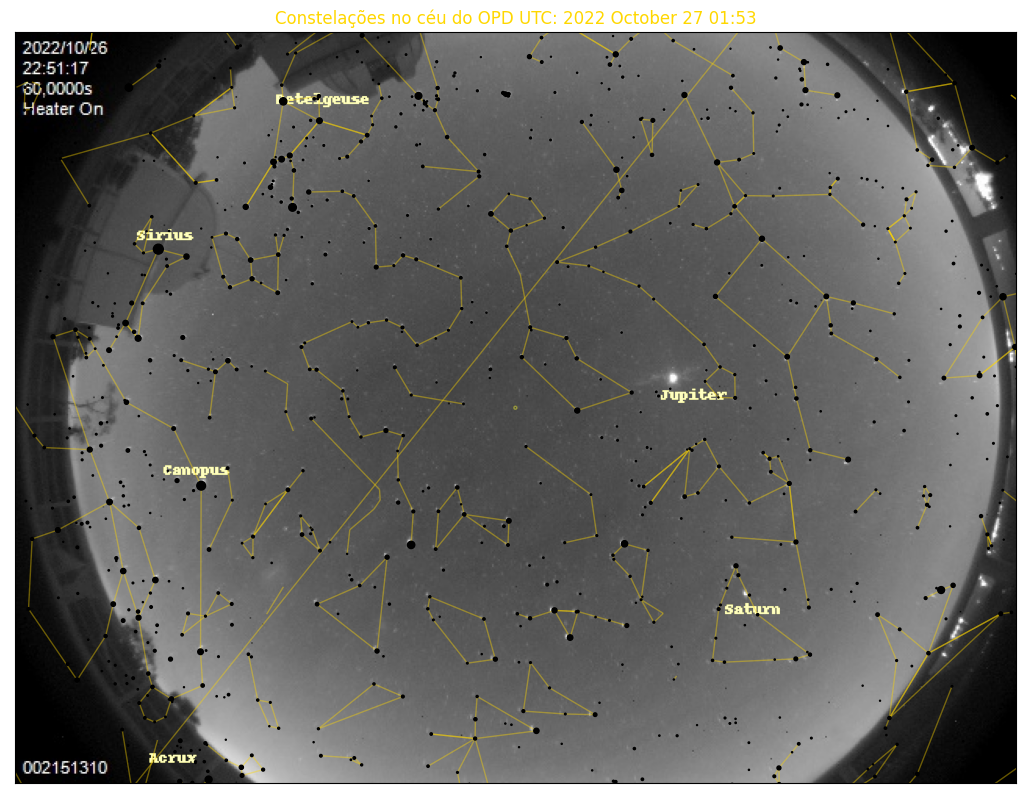
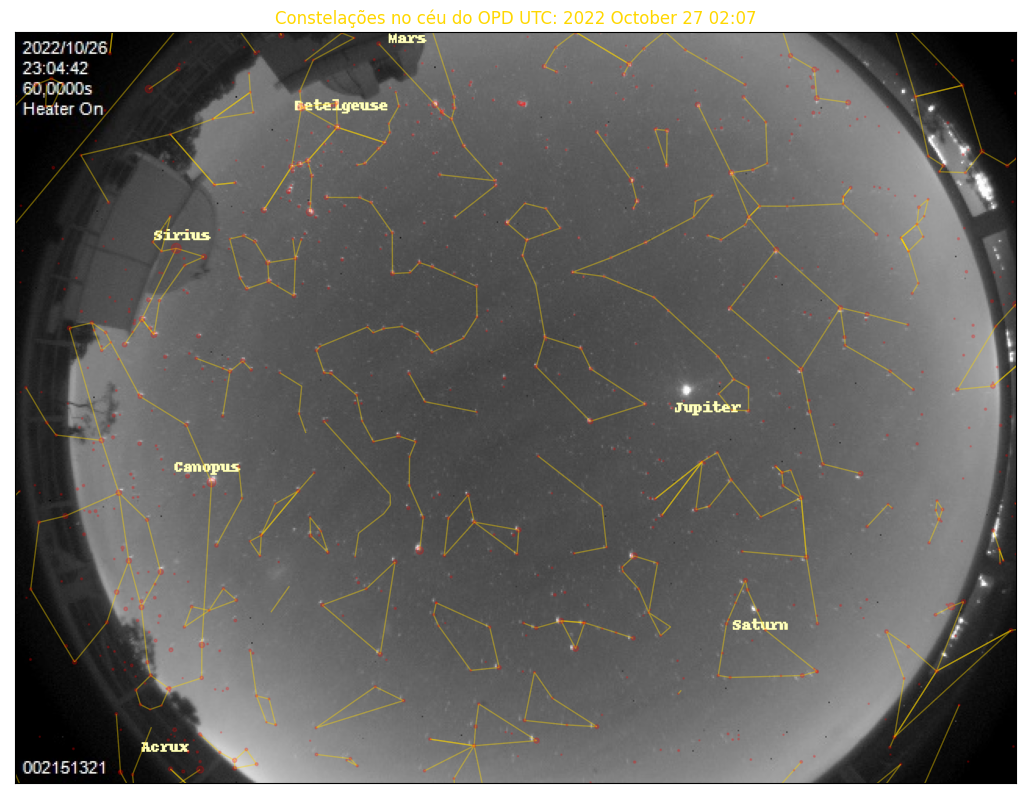
v 1.0

diff --git a/skymap.py b/skymap.py
@@ -101,17 +101,6 @@ stardata['x'], stardata['y'] = projection(star_positions)
 
 #Adjust fish-eye Allsky distotion
 stardata['x'], stardata['y'] = get_az_alt(stardata.ra_hours,stardata.dec_degrees,lst,-22.5344)
-# print(stardata['x'])
-# x=fzsin(A−Δ)+x0
-# y=fzcos(A−Δ)+y0
-#f = 3.365 piexels/degree
-# z = zenith estrela
-# A = azimuth estrela
-# Δ = rotacao da camera
-# x0 e y0 = coordenadas do zenith da camera
-# rho, phi = cart2pol(stardata['x'], stardata['y'])
-# stardata['x'] = (3.365*rho*np.sin(phi-40)+0)/3
-# stardata['y'] = (3.365*phi*np.cos(phi-40)+0)/3
 
 # Create a True/False mask marking the stars bright enough to be
 # included in our plot.  And go ahead and compute how large their
@@ -129,39 +118,21 @@ marker_size = (0.7 + limiting_magnitude - magnitude) ** 2.0
 img = plt.imread("http://200.131.64.237:8090/img/allsky_picole.png")
 fig, ax = plt.subplots(figsize=[640, 480])
 tr = tx.Affine2D().rotate_deg(0)
-# ax.imshow(img, extent=[-0.911, 0.911, -0.7, 0.7])
 ax.imshow(img, extent=[-320, 320, -240, 240])
-
-# Horizons circle
-horizon = []
-h0 = projection(opd_local.from_altaz(alt_degrees=0, az_degrees=0.0))
-for i in range(1, 73):
-    delta = 5.0
-    current = i * delta
-    h1 = projection(opd_local.from_altaz(alt_degrees=0, az_degrees=current))
-    horizon.append([h0, h1])
-    h0 = h1
-
-#Plot Horizon
-ax.add_collection(LineCollection(horizon,
-                colors='#ffff3d', linewidths=1, linestyle='dashed', zorder=1, alpha=0.5, transform=tr + ax.transData))
 
 # Plot constellation lines
 ax.add_collection(LineCollection(generate_constellation_lines(constellations),
-                colors='gold', linewidths=1, zorder=1, alpha=0.4, transform=tr + ax.transData))
+                colors='gold', linewidths=1, zorder=1, alpha=0.4))
 
 # Plot Stars only at daytime
-# if 5<datetime.now().hour<24:
 ax.scatter(stardata['x'][bright_stars], stardata['y'][bright_stars],
-    s=marker_size, color='k', transform=tr + ax.transData)
+    s=marker_size, color='r', alpha=.2)
 
 # Adjusts
 field_of_view_degrees = 180.0
 angle = np.pi - field_of_view_degrees / 360.0 * np.pi
 limit = np.sin(angle) / (1.0 - np.cos(angle))
 
-# ax.set_xlim(-limit, limit)
-# ax.set_ylim(-limit, limit)
 ax.xaxis.set_visible(False)
 ax.yaxis.set_visible(False)
 ax.patch.set_alpha(0.3)
